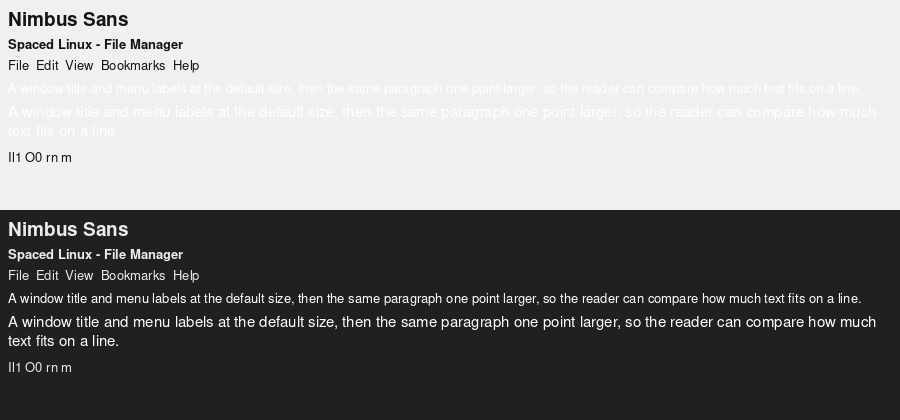
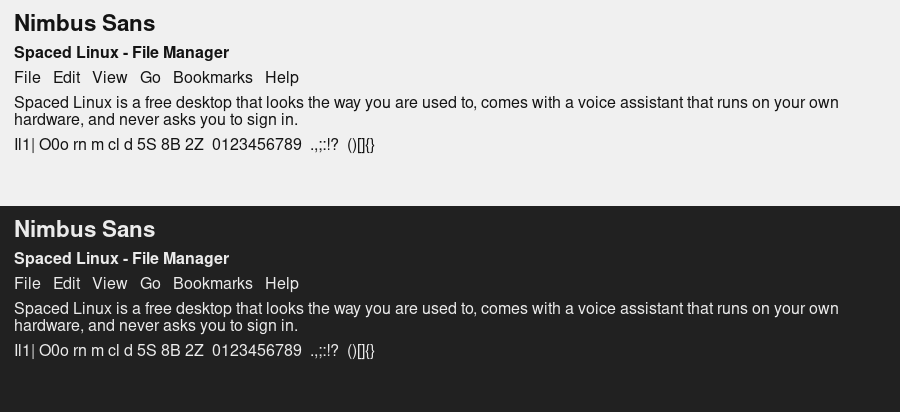
Font comparison: render with Pango and Cairo, compare fourteen families (#286)
The first version drew the cards with Pillow, left the paragraph text
white on the light half, left a blank row on the contact sheet and
compared only the three families installed on the build machine. Cards
are now laid out by Pango at the desktop's real size (10 pt times the 1.2
text scaling), FONT_DIR lets unpacked font packages be compared without
installing them, and the table gains line height and width relative to
DejaVu Sans.

Changed region(s): [[0.0, 0.5243, 0.9956, 0.9029], [0.0, 0.233, 0.9333, 0.3786], [0.0, 0.0291, 0.3422, 0.2039]]

diff --git a/scripts/tests/font-comparison.py b/scripts/tests/font-comparison.py
@@ -1,122 +1,135 @@
 #!/usr/bin/env python3
-# Render one 900x420 card per installed font family and measure text width + x-height (issue #286).
-# Cairo (cairo-gobject) is not available on this machine, so cards are rendered with Pillow and
-# measured with Pillow's textbbox; the numbers therefore match the pictures exactly.
+# Render one card per font family and measure text width, x-height and line height (issue #286).
+# Text is laid out with Pango and drawn with Cairo, the same stack GTK uses on the desktop, at
+# the size the desktop really shows: "Sans 10" times the shipped text-scaling-factor of 1.2.
 import sys
-from PIL import Image, ImageDraw, ImageFont
+
+import cairo
+import gi
+
+gi.require_version("Pango", "1.0")
+gi.require_version("PangoCairo", "1.0")
+from gi.repository import Pango, PangoCairo  # noqa: E402
 
 SENTENCE = "The quick brown fox jumps over the lazy dog near a big barn!"  # 60 chars
-MENU = "File  Edit  View  Bookmarks  Help"
-LOOKALIKE = "Il1 O0 rn m"
 TITLE = "Spaced Linux - File Manager"
-PARA = ("A window title and menu labels at the default size, then the same paragraph "
-        "one point larger, so the reader can compare how much text fits on a line.")
+MENU = "File   Edit   View   Go   Bookmarks   Help"
+PARA = ("Spaced Linux is a free desktop that looks the way you are used to, comes with a voice "
+        "assistant that runs on your own hardware, and never asks you to sign in.")
+LOOKALIKE = "Il1| O0o rn m cl d 5S 8B 2Z  0123456789  .,;:!?  ()[]{}"
 
-W, H = 900, 420
+POINT_SIZE = 10
+SCALE = 1.2  # text-scaling-factor in 90_spaced-linux.gschema.override
 DPI = 96.0
+W, PAD, COLS = 900, 14, 3
+BASELINE = "DejaVu Sans"  # what "Sans" resolves to on a stock install
+HALVES = (((0.94, 0.94, 0.94), (0.08, 0.08, 0.08)), ((0.13, 0.13, 0.13), (0.92, 0.92, 0.92)))
 
 
-def pt2px(pt):
-    return int(round(pt * DPI / 72.0))
+def make_layout(ctx, family, text, bold=False, size=POINT_SIZE, width=None):
+    layout = PangoCairo.create_layout(ctx)
+    PangoCairo.context_set_resolution(layout.get_context(), DPI * SCALE)
+    desc = Pango.FontDescription()
+    desc.set_family(family)
+    desc.set_size(int(size * Pango.SCALE))
+    desc.set_weight(Pango.Weight.BOLD if bold else Pango.Weight.NORMAL)
+    layout.set_font_description(desc)
+    if width:
+        layout.set_width(width * Pango.SCALE)
+        layout.set_wrap(Pango.WrapMode.WORD)
+    layout.set_text(text, -1)
+    return layout
 
 
-def resolve(reg, bold):
-    import subprocess
-    def match(spec):
-        out = subprocess.run(["fc-match", "-f", "%{file}", spec],
-                             capture_output=True, text=True)
-        return out.stdout.strip()
-    return match(reg), match(bold)
+def resolved_family(ctx, family):
+    layout = make_layout(ctx, family, "x")
+    font = layout.get_context().load_font(layout.get_font_description())
+    return font.describe().get_family()
 
 
-def measure(font_file, size_px):
-    f = ImageFont.truetype(font_file, size_px)
-    x0, y0, x1, y1 = f.getbbox(SENTENCE)
-    width = x1 - x0
-    ax0, ay0, ax1, ay1 = f.getbbox("x")
-    return width, (ay1 - ay0)
+def rows(family):
+    return ((family, True, 14), (TITLE, True, POINT_SIZE), (MENU, False, POINT_SIZE),
+            (PARA, False, POINT_SIZE), (LOOKALIKE, False, POINT_SIZE))
 
 
-def wrap(draw, font, text, x, y, maxw, lh):
-    words = text.split()
-    line = ""
-    for word in words:
-        trial = (line + " " + word).strip()
-        if draw.textbbox((0, 0), trial, font=font)[2] > maxw:
-            if line:
-                draw.text((x, y), line, font=font)
-                y += lh
-                line = word
-            else:
-                draw.text((x, y), word, font=font)
-                y += lh
-                line = ""
-        else:
-            line = trial
-    if line:
-        draw.text((x, y), line, font=font)
-        y += lh
-    return y
+def draw_half(ctx, family, top, bg, fg, paint=True):
+    y = top + PAD
+    height = 0
+    for text, bold, size in rows(family):
+        layout = make_layout(ctx, family, text, bold, size, W - 2 * PAD)
+        if paint:
+            ctx.set_source_rgb(*fg)
+            ctx.move_to(PAD, y)
+            PangoCairo.show_layout(ctx, layout)
+        y += layout.get_pixel_size()[1] + 8
+    height = y - top + PAD - 8
+    return height
 
 
-def card(reg_file, bold_file):
-    img = Image.new("RGB", (W, H), (240, 240, 240))
-    img.paste((32, 32, 32), (0, H // 2, W, H))
-    d = ImageDraw.Draw(img)
-    s10 = pt2px(10)
-    s11 = pt2px(11)
-    for half, bg, fg in (("light", (240, 240, 240), (20, 20, 20)),
-                        ("dark", (32, 32, 32), (235, 235, 235))):
-        top = 0 if half == "light" else H // 2
-        d.rectangle([0, top, W, top + H // 2], fill=bg)
-        y = top + 12
-        d.text((8, y), FAMILY, font=ImageFont.truetype(bold_file, pt2px(14)), fill=fg)
-        y += pt2px(14) + 8
-        d.text((8, y), TITLE, font=ImageFont.truetype(bold_file, s10), fill=fg)
-        y += s10 + 8
-        d.text((8, y), MENU, font=ImageFont.truetype(reg_file, s10), fill=fg)
-        y += s10 + 10
-        y = wrap(d, ImageFont.truetype(reg_file, s10), PARA, 8, y, W - 16, s10 + 4)
-        y += 6
-        y = wrap(d, ImageFont.truetype(reg_file, s11), PARA, 8, y, W - 16, s11 + 4)
-        y += 8
-        d.text((8, y), LOOKALIKE, font=ImageFont.truetype(reg_file, s10), fill=fg)
-    return img
+def card(family, half_height):
+    surface = cairo.ImageSurface(cairo.FORMAT_RGB24, W, 2 * half_height)
+    ctx = cairo.Context(surface)
+    for i, (bg, fg) in enumerate(HALVES):
+        ctx.set_source_rgb(*bg)
+        ctx.rectangle(0, i * half_height, W, half_height)
+        ctx.fill()
+        draw_half(ctx, family, i * half_height, bg, fg)
+    return surface
+
+
+def measure(ctx, family):
+    width = make_layout(ctx, family, SENTENCE).get_pixel_size()[0]
+    ink, _ = make_layout(ctx, family, "x").get_pixel_extents()
+    line = make_layout(ctx, family, "x").get_pixel_size()[1]
+    return width, ink.height, line
 
 
 def main(outdir, families):
-    global FAMILY
-    rows = []
-    cards = []
-    for fam in families:
-        FAMILY = fam
-        reg, bold = resolve(fam, f"{fam}:bold")
-        width, xh = measure(reg, pt2px(10))
-        img = card(reg, bold)
-        path = f"{outdir}/{'_'.join(fam.split())}.png"
-        img.save(path)
-        cards.append((path, img))
-        rows.append((fam, width, xh, reg))
-    rows.sort(key=lambda r: r[1])
-    cols = len(cards)
-    sheet = Image.new("RGB", (cols * W, 2 * H), (255, 255, 255))
-    for i, (_, img) in enumerate(cards):
-        sheet.paste(img, ((i % 3) * W, (i // 3) * H))
-    sheet.save(f"{outdir}/contact-sheet.png")
+    probe = cairo.Context(cairo.ImageSurface(cairo.FORMAT_RGB24, 8, 8))
+    present = [f for f in families if resolved_family(probe, f) == f]
+    missing = [f for f in families if f not in present]
+    half = max(draw_half(probe, f, 0, None, None, paint=False) for f in present)
+
+    results = []
+    for family in present:
+        surface = card(family, half)
+        surface.write_to_png(f"{outdir}/{family.replace(' ', '_')}.png")
+        results.append((family, *measure(probe, family), surface))
+    results.sort(key=lambda r: r[1])
+
+    # Contact sheet in the same narrow-to-wide order as the table.
+    grid_rows = -(-len(results) // COLS)
+    sheet = cairo.ImageSurface(cairo.FORMAT_RGB24, COLS * W, grid_rows * 2 * half)
+    ctx = cairo.Context(sheet)
+    ctx.set_source_rgb(1, 1, 1)
+    ctx.paint()
+    for i, result in enumerate(results):
+        ctx.set_source_surface(result[4], (i % COLS) * W, (i // COLS) * 2 * half)
+        ctx.paint()
+    sheet.write_to_png(f"{outdir}/contact-sheet.png")
+
+    base = next((r[1] for r in results if r[0] == BASELINE), None)
     with open(f"{outdir}/README.md", "w") as fh:
         fh.write("# Default font comparison (issue #286)\n\n")
-        fh.write("Width = pixels of the 60-character sentence at 10 pt (narrower fits more text). "
-                 "x-height = pixels of the lowercase 'x' at 10 pt.\n\n")
-        fh.write("| Family | Width (px) | x-height (px) | File |\n")
-        fh.write("|---|---|---|---|\n")
-        for fam, width, xh, reg in rows:
-            fh.write(f"| {fam} | {width} | {xh} | {reg} |\n")
+        fh.write(f"Rendered with Pango and Cairo at {POINT_SIZE} pt with the shipped text scaling "
+                 f"of {SCALE}, which is what a stock desktop shows. Width is the pixel width of a "
+                 "60-character sentence, so a smaller number fits more text on a line. x-height is "
+                 "the pixel height of a lowercase x, and line height is the pixel height of one "
+                 f"line. The last column compares the width with {BASELINE}, the current default.\n\n")
+        fh.write(f"| Family | Width (px) | x-height (px) | Line height (px) | Width vs {BASELINE} |\n")
+        fh.write("|---|---|---|---|---|\n")
+        for family, width, xh, line, _ in results:
+            rel = f"{(width / base - 1) * 100:+.0f}%" if base else "n/a"
+            fh.write(f"| [{family}]({family.replace(' ', '_')}.png) | {width} | {xh} | {line} | {rel} |\n")
+        if missing:
+            fh.write(f"\nNot available when this was generated, so not compared: {', '.join(missing)}.\n")
         fh.write("\n![contact sheet](contact-sheet.png)\n")
-    for fam, width, xh, reg in rows:
-        print(f"{fam}\twidth={width}px\tx-height={xh}px")
+
+    for family, width, xh, line, _ in results:
+        print(f"{family}\twidth={width}px\tx-height={xh}px\tline={line}px")
+    if missing:
+        print("not available (not compared): " + ", ".join(missing))
 
 
 if __name__ == "__main__":
-    outdir = sys.argv[1]
-    fams = sys.argv[2:]
-    main(outdir, fams)
+    main(sys.argv[1], sys.argv[2:])

diff --git a/docs/font-comparison/README.md b/docs/font-comparison/README.md
@@ -1,11 +1,22 @@
 # Default font comparison (issue #286)
 
-Width = pixels of the 60-character sentence at 10 pt (narrower fits more text). x-height = pixels of the lowercase 'x' at 10 pt.
+Rendered with Pango and Cairo at 10 pt with the shipped text scaling of 1.2, which is what a stock desktop shows. Width is the pixel width of a 60-character sentence, so a smaller number fits more text on a line. x-height is the pixel height of a lowercase x, and line height is the pixel height of one line. The last column compares the width with DejaVu Sans, the current default.
 
-| Family | Width (px) | x-height (px) | File |
-|---|---|---|---|
-| Cantarell | 346 | 7 | /usr/share/fonts/opentype/cantarell/Cantarell-VF.otf |
-| Nimbus Sans | 351 | 7 | /usr/share/fonts/opentype/urw-base35/NimbusSans-Regular.otf |
-| DejaVu Sans | 402 | 7 | /usr/share/fonts/truetype/dejavu/DejaVuSans.ttf |
+| Family | Width (px) | x-height (px) | Line height (px) | Width vs DejaVu Sans |
+|---|---|---|---|---|
+| [Roboto Condensed](Roboto_Condensed.png) | 393 | 9 | 19 | -20% |
+| [Carlito](Carlito.png) | 397 | 8 | 21 | -19% |
+| [Source Sans 3](Source_Sans_3.png) | 406 | 8 | 22 | -17% |
+| [FreeSans](FreeSans.png) | 416 | 9 | 17 | -15% |
+| [Lato](Lato.png) | 422 | 8 | 20 | -14% |
+| [Cantarell](Cantarell.png) | 427 | 8 | 20 | -13% |
+| [Nimbus Sans](Nimbus_Sans.png) | 429 | 9 | 17 | -12% |
+| [Liberation Sans](Liberation_Sans.png) | 430 | 9 | 19 | -12% |
+| [Roboto](Roboto.png) | 430 | 9 | 19 | -12% |
+| [Ubuntu](Ubuntu.png) | 432 | 9 | 19 | -12% |
+| [Open Sans](Open_Sans.png) | 459 | 9 | 23 | -6% |
+| [Noto Sans](Noto_Sans.png) | 460 | 9 | 23 | -6% |
+| [Inter](Inter.png) | 466 | 9 | 20 | -5% |
+| [DejaVu Sans](DejaVu_Sans.png) | 489 | 9 | 19 | +0% |
 
 ![contact sheet](contact-sheet.png)
